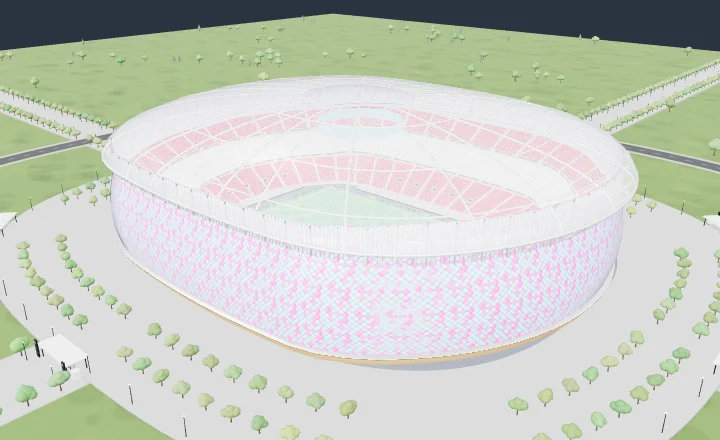
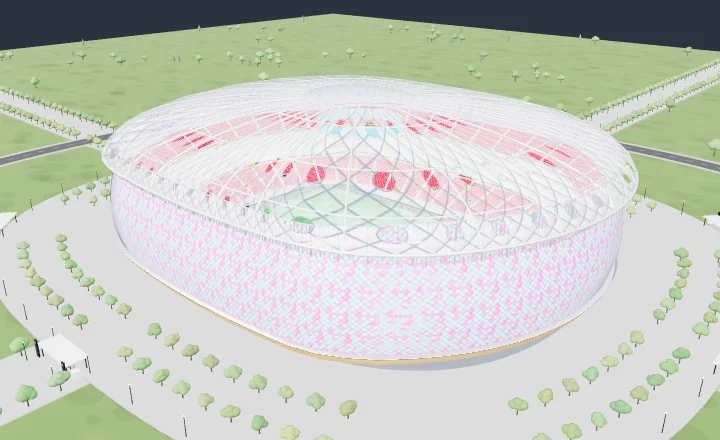
feat: presets showcase crowd, tifos, seat patterns, facade palettes, site, water and lighting moods

diff --git a/src/stadium/presets.ts b/src/stadium/presets.ts
@@ -1916,11 +1916,110 @@ function placeShopsBehindStands(doc: StadiumDocument): void {
   }
 }
 
+const ALL_SIDES: StandSide[] = ['north', 'south', 'east', 'west'];
+
+/**
+ * Options layered over each template so the gallery shows the editor's range — crowd, tifos,
+ * seat patterns, facade palettes, site, water, lighting moods — not just shapes and roofs. Kept
+ * apart from the templates because derived presets start from those and must not inherit them.
+ */
+const PRESET_HIGHLIGHTS: Record<string, (doc: StadiumDocument) => void> = {
+  bowl_bowstring_60k: (doc) => {
+    doc.stands.south = { ...doc.stands.south, vipLoges: true, vipStoreys: 2, pressBox: true, fasciaStyle: 'led_ribbon' };
+    doc.pitch.adBoardTheme = 'champions_league';
+    withMaterials(doc, { crowd: true, crowdAttendance: 0.85 });
+    doc.site = { setting: 'esplanade', entrances: true };
+  },
+  cauldron_cable_42k: (doc) => {
+    doc.stands.south = { ...doc.stands.south, tifo: true, banners: true, seatStyle: { pattern: 'lettering', text: 'ALLEZ' } };
+    doc.frontFence = 'mesh';
+    doc.frontFenceHeight = 2.5;
+    doc.lighting = 'night';
+    withMaterials(doc, { crowd: true, crowdAttendance: 0.97 });
+    doc.site = { setting: 'urban' };
+  },
+  olympic_masts_80k: (doc) => {
+    doc.pitch.adBoardTheme = 'world_cup';
+    doc.roof.skylightMode = 'pitch_ring';
+    doc.roof.skylightRatio = 0.2;
+    doc.site = { setting: 'park', water: 'moat' };
+    doc.lighting = 'dusk';
+  },
+  octagonal_cantilever_26k: (doc) => {
+    for (const side of ALL_SIDES) doc.stands[side] = { ...doc.stands[side], crestProfile: 'saddle_dip' };
+    withMaterials(doc, { facadeStripeSpacing: 6, facadeBaseGlow: true });
+    doc.lighting = 'dusk';
+  },
+  urban_cathedral_84k: (doc) => {
+    withMaterials(doc, { plinthHeight: 6 });
+    doc.site = { setting: 'urban', podiumHeight: 8 };
+  },
+  mega_retractable_88k: (doc) => {
+    doc.pitch.adBoardTheme = 'mls_usa';
+    doc.roof.forecourtCanopy = { side: 'south', depth: 24 };
+    doc.site = { setting: 'parking' };
+  },
+  luminous_shell_75k: (doc) => {
+    doc.lighting = 'night';
+    withMaterials(doc, { envelopeProfile: 'bulging', facadeGlowHex: '#e11d48', crowd: true });
+  },
+  asymmetric_modular_30k: (doc) => {
+    withMaterials(doc, {
+      facadePattern: 'pixel_mosaic',
+      facadePalette: ['#0f172a', '#dc2626', '#f8fafc'],
+      facadePaletteGradient: true,
+    });
+    doc.pitch.adBoardTheme = 'ligue_1';
+    doc.cornerAccess = { ne: true };
+  },
+  traditional_four_stands_42k: (doc) => {
+    doc.stands.south = { ...doc.stands.south, pressGantry: true, tunnelStyle: 'corner_twin' };
+    doc.pitch.adBoardTheme = 'premier_league';
+    doc.pitch.grassPattern = 'checker';
+    doc.site = { setting: 'urban', perimeterFence: true };
+  },
+  horseshoe_amphitheatre_38k: (doc) => {
+    doc.stands.west = { ...doc.stands.west, embankment: true };
+    doc.site = { setting: 'park', mound: 6 };
+  },
+  english_kop_wall_48k: (doc) => {
+    doc.stands.west = { ...doc.stands.west, tifo: true, banners: true };
+    withMaterials(doc, { crowd: true, crowdAttendance: 0.95 });
+    doc.lighting = 'night';
+  },
+  sunken_colonnade_44k: (doc) => {
+    withMaterials(doc, { colonnadeShape: 'doric' });
+    doc.site = { setting: 'esplanade', water: 'waterfront' };
+  },
+  tensile_exposed_56k: (doc) => {
+    doc.roof.skylightMode = 'radial_slots';
+    doc.roof.skylightRatio = 0.25;
+    doc.pitch.adBoardTheme = 'europa_league';
+    doc.seatTierStyles = [{ pattern: 'solid' }, { pattern: 'mosaic', share: 0.25 }, { pattern: 'gradient' }];
+    doc.stands.north = { ...doc.stands.north, rakeProfile: 'progressive', crossAisle: true };
+  },
+  climatic_dome_72k: (doc) => {
+    doc.roof.skylightMode = 'grid_oculi';
+    doc.roof.skylightRatio = 0.15;
+    doc.lighting = 'night';
+  },
+  circular_folded_52k: (doc) => {
+    doc.seatStyle = { pattern: 'stripes' };
+    withMaterials(doc, { envelopeProfile: 'saucer' });
+  },
+  open_ends_vault_46k: (doc) => {
+    doc.roof.enclosureGlazed = true;
+    doc.pitch.hasMoat = true;
+    doc.pitch.adBoardTheme = 'equipe_de_france';
+  },
+};
+
 export function createPresetDocument(presetId: string): StadiumDocument {
   const normalizedId = LEGACY_TEMPLATE_ALIASES[presetId] ?? presetId;
   const found =
     STADIUM_PRESETS.find((p) => p.id === normalizedId) ?? STADIUM_PRESETS[0];
   const doc = found.createDocument();
+  PRESET_HIGHLIGHTS[found.id]?.(doc);
   placeShopsBehindStands(doc);
   if (doc.roof.overConcourse === undefined) {
     doc.roof.overConcourse = true;
@@ -1956,7 +2055,7 @@ export function createBlankDocument(): StadiumDocument {
   doc.roof = { ...doc.roof, style: 'none', coveredSides: undefined };
   doc.concourse = { width: 0, heightRatio: 0.5 };
   doc.floodlightRig = 'none';
-  doc.pitch = { ...doc.pitch, adBoards: false, hasTrack: false, movablePitch: 'none' };
+  doc.pitch = { ...doc.pitch, adBoards: false, adBoardTheme: undefined, grassPattern: 'stripes', hasTrack: false, movablePitch: 'none' };
   doc.site = { setting: 'none', entrances: false, perimeterFence: false };
   doc.objects = [];
   return doc;
